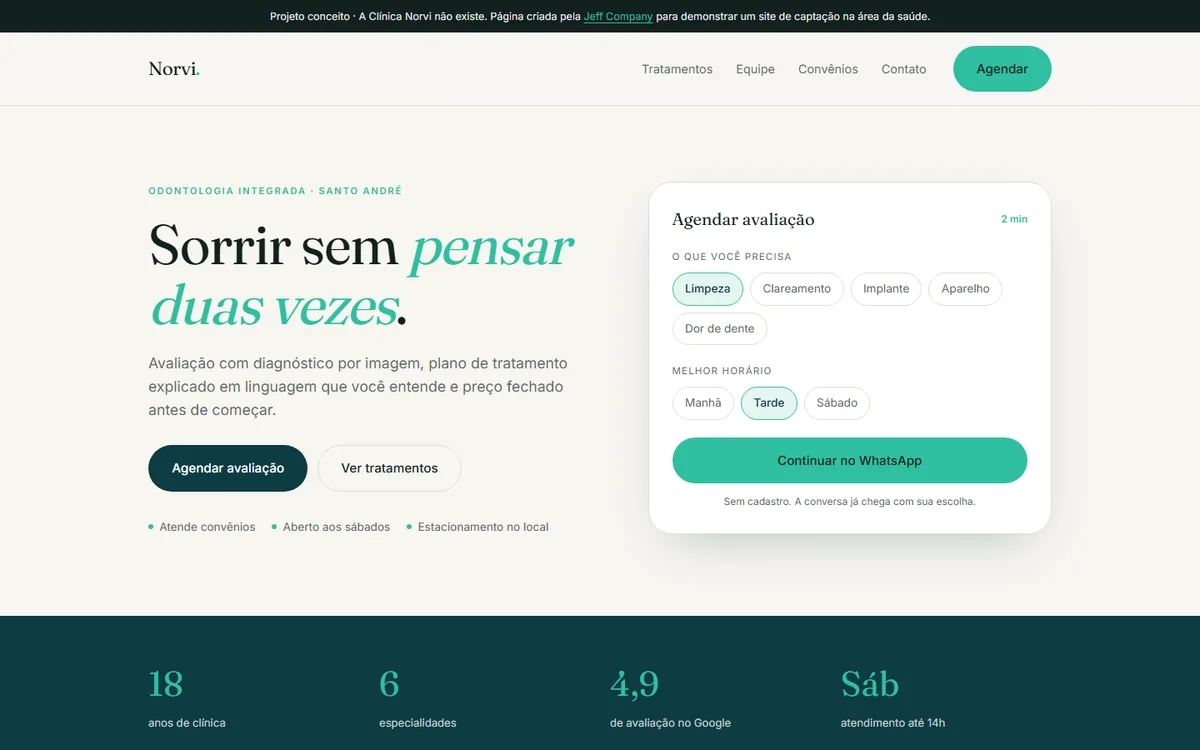
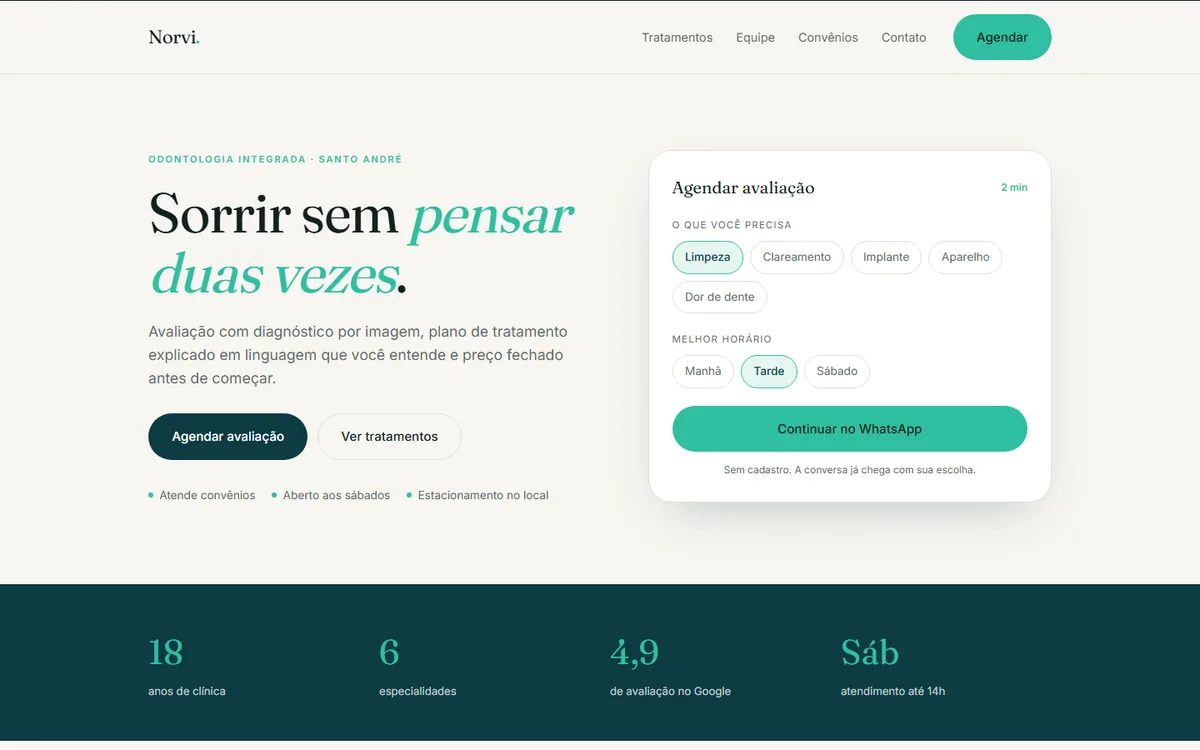
Tira a barra falsa dos cards e refaz as tres capturas
A barra imitando janela de navegador so somava um vazio no topo de cada
card - as capturas ja mostram a pagina inteira. Sem ela a imagem preenche
o quadro arredondado de ponta a ponta.

As tres capturas foram refeitas:

- DevClub: era a arte de compartilhamento (1200x630) cortada nas laterais
  para virar 16:10, e o titulo ficava de fora. Agora e a pagina de
  verdade. Como a intro 3D nao renderiza em headless, a captura saiu de
  uma copia temporaria com a intro desligada; a copia foi apagada e o
  projeto original nao foi tocado.
- Clinica: a faixa "Projeto conceito" aparecia no topo e roubava espaco.
  O corte comeca abaixo dela.
- BiBi: sobrava uma tarja preta embaixo do hero.

As tres agora saem do mesmo enquadramento 1200x750, entre 30 e 36 KB.

Os atributos width/height diziam 1200x800 enquanto os arquivos eram
1200x750. Declarar tamanho errado anula o motivo de declarar: o layout
pula do mesmo jeito enquanto a imagem carrega.

A rede de seguranca das animacoes saiu do main.js e foi para o script
inline do index.html. No main.js ela nao cobria o pior caso - o proprio
main.js nao carregar - porque a classe .js do inline ja teria escondido
tudo, e a pagina ficaria em branco da segunda secao para baixo. Isso
apareceu por acidente ao capturar a pagina com o script desligado.

diff --git a/index.html b/index.html
@@ -38,7 +38,18 @@
        o conteúdo quando esta classe existe — sem JavaScript, a página aparece
        inteira e legível. Precisa ficar aqui no topo, antes do CSS, para o
        conteúdo nunca piscar. -->
-  <script>document.documentElement.className += ' js';</script>
+  <script>
+    document.documentElement.className += ' js';
+    /* Rede de segurança no PRÓPRIO html, e não dentro do main.js: se o
+       main.js não carregar (rede ruim, erro 404, bloqueador), a classe .js
+       acima já teria escondido tudo e a página ficaria em branco da segunda
+       seção para baixo. Este temporizador devolve o conteúdo em 4s
+       independente do que aconteça com o script externo. */
+    setTimeout(function () {
+      var ocultos = document.querySelectorAll('.reveal:not(.is-in)');
+      for (var i = 0; i < ocultos.length; i++) ocultos[i].classList.add('is-in');
+    }, 4000);
+  </script>
 
   <!-- ====================================================================
        O ?v= no fim de cada arquivo e o numero da versao.
@@ -51,10 +62,10 @@
        linhas abaixo. O navegador entende que e outro arquivo e baixa de
        novo. Vale o mesmo para os sites dos seus clientes.
        ==================================================================== -->
-  <link rel="stylesheet" href="css/variables.css?v=2026-08-20">
-  <link rel="stylesheet" href="css/base.css?v=2026-08-20">
-  <link rel="stylesheet" href="css/components.css?v=2026-08-20">
-  <link rel="stylesheet" href="css/sections.css?v=2026-08-20">
+  <link rel="stylesheet" href="css/variables.css?v=2026-08-20c">
+  <link rel="stylesheet" href="css/base.css?v=2026-08-20c">
+  <link rel="stylesheet" href="css/components.css?v=2026-08-20c">
+  <link rel="stylesheet" href="css/sections.css?v=2026-08-20c">
 
   <!-- ====================================================================
        Dados estruturados: é assim que o Google entende que existe uma
@@ -476,8 +487,7 @@
         <article class="case reveal">
           <div class="case-visual">
             <div class="case-janela">
-              <span class="case-barra"><i></i><i></i><i></i></span>
-              <img src="assets/img/cases/bibi.webp" width="1200" height="800" loading="lazy"
+              <img src="assets/img/cases/bibi.webp" width="1200" height="750" loading="lazy"
                    alt="Página da BiBi Cartomante: fundo escuro com estrelas, cartas de tarot e botão de agendamento.">
             </div>
           </div>
@@ -520,9 +530,8 @@
         <article class="case case-inverso reveal">
           <div class="case-visual">
             <div class="case-janela">
-              <span class="case-barra"><i></i><i></i><i></i></span>
-              <img src="assets/img/cases/devclub.webp" width="1200" height="800" loading="lazy"
-                   alt="Página DevClub Dentro da Mente: cérebro formado por partículas coloridas sobre fundo escuro.">
+              <img src="assets/img/cases/devclub.webp" width="1200" height="750" loading="lazy"
+                   alt="Página do DevClub: campo de estrelas escuro com o título &quot;Ideias viram código, pessoas viram devs&quot;.">
             </div>
           </div>
 
@@ -563,8 +572,7 @@
         <article class="case reveal">
           <div class="case-visual">
             <div class="case-janela">
-              <span class="case-barra"><i></i><i></i><i></i></span>
-              <img src="assets/img/cases/clinica.webp" width="1200" height="800" loading="lazy"
+              <img src="assets/img/cases/clinica.webp" width="1200" height="750" loading="lazy"
                    alt="Página conceito de uma clínica odontológica, com agendamento pelo WhatsApp.">
             </div>
           </div>
@@ -834,6 +842,6 @@
   </div>
 </footer>
 
-<script src="js/main.js?v=2026-08-20" defer></script>
+<script src="js/main.js?v=2026-08-20c" defer></script>
 </body>
 </html>

diff --git a/css/sections.css b/css/sections.css
@@ -686,23 +686,21 @@
 
 .case-inverso .case-visual { order: 2; }
 
+/* Sem barra falsa de navegador: as capturas já mostram a página inteira,
+   e a barra só somava um vazio no topo de cada card. A imagem preenche o
+   quadro arredondado de ponta a ponta. */
 .case-janela {
   border: 1px solid var(--line);
   border-radius: var(--r-lg);
   overflow: hidden;
   background: var(--surface-2);
-  /* enquanto a captura não existe, o próprio quadro já parece um site */
+  /* enquanto a captura não existe, o quadro ainda tem alguma presença */
   background-image: linear-gradient(140deg, rgba(199, 245, 63, 0.08), transparent 60%);
+  line-height: 0;              /* mata o vão que a linha de texto deixaria */
+  transition: border-color 0.3s var(--ease);
 }
 
-.case-barra {
-  display: flex;
-  gap: 5px;
-  padding: 0.6rem 0.8rem;
-  border-bottom: 1px solid var(--line);
-}
-
-.case-barra i { width: 8px; height: 8px; border-radius: 50%; background: var(--line); }
+.case:hover .case-janela { border-color: var(--line-soft); }
 
 .case-janela img {
   width: 100%;

diff --git a/js/main.js b/js/main.js
@@ -141,15 +141,9 @@
 
     alvos.forEach(function (el) { obs.observe(el); });
 
-    /* Rede de segurança: se por qualquer motivo o observador não disparar —
-       aba aberta em segundo plano, navegador antigo, alguma extensão — o
-       conteúdo aparece assim mesmo depois de 4 segundos. Uma animação que
-       falha não pode custar a página inteira. */
-    setTimeout(function () {
-      document.querySelectorAll('.reveal:not(.is-in)').forEach(function (el) {
-        el.classList.add('is-in');
-      });
-    }, 4000);
+    /* A rede de segurança que revela tudo em 4s NÃO fica aqui: ela está no
+       script inline do index.html. Se estivesse neste arquivo, não serviria
+       para o pior caso — o main.js não carregar. */
   })();
 
   /* ---------------------------------------------------------------------
